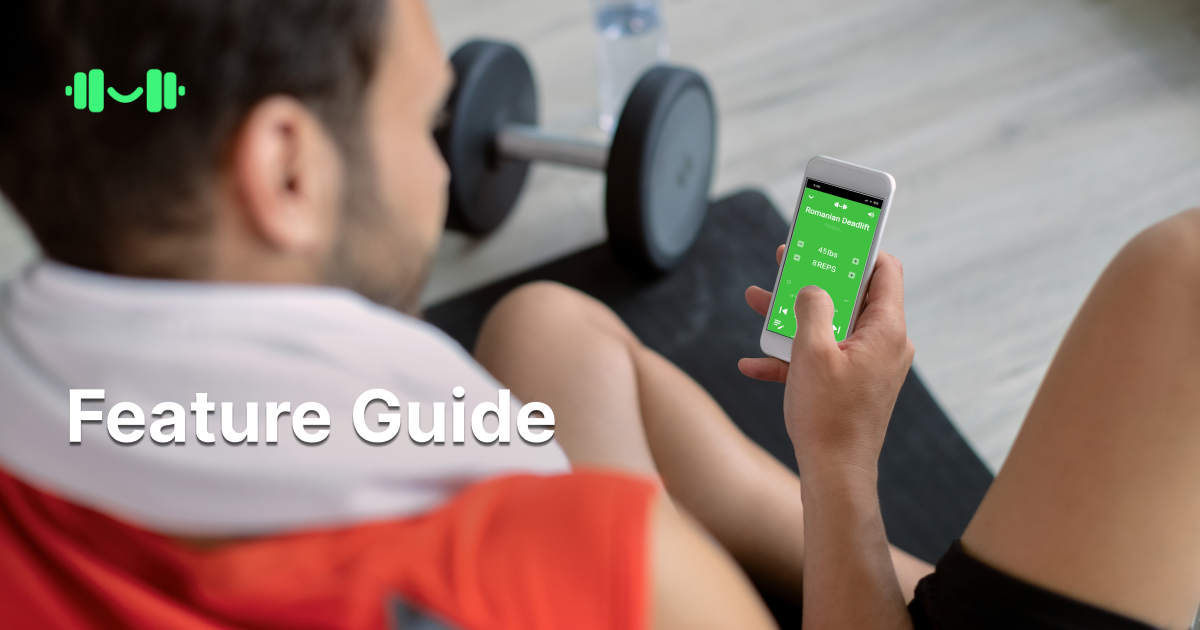
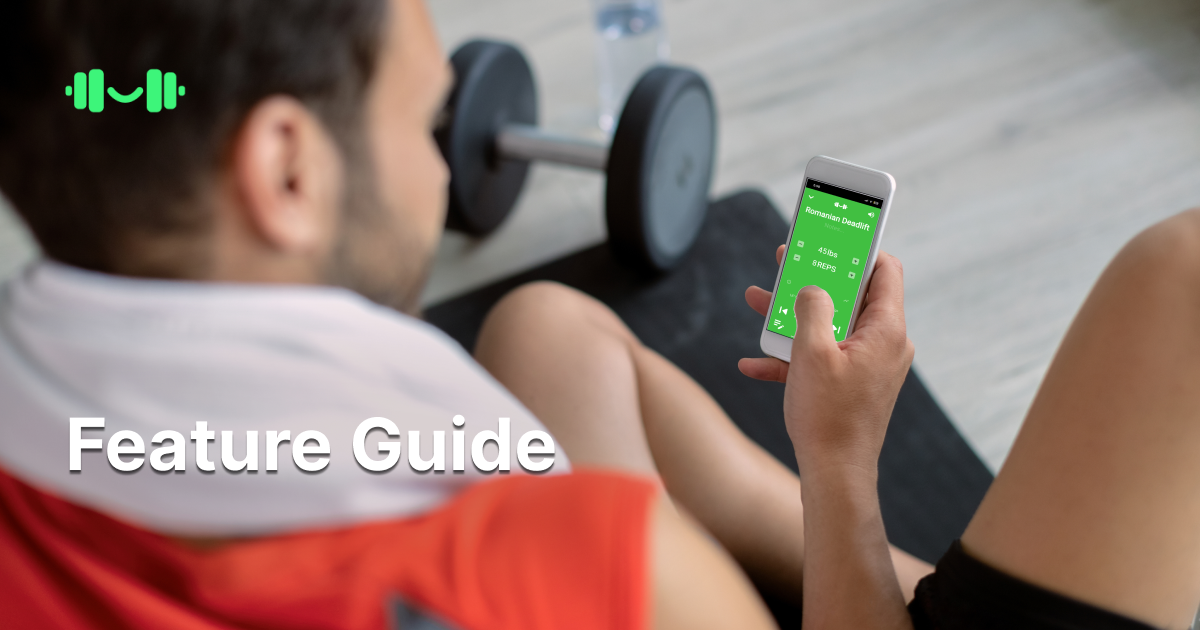
Updated About Page and some css

Changed region(s): [[0.0308, 0.6032, 0.4625, 0.754]]

diff --git a/about.html b/about.html
@@ -41,13 +41,12 @@
     <section class="about head bg-dark">
         <div class="container grid">
             <div class="about-img">
-                <img src="images/youtube.png" alt="Grin&Gain Team Image">
+                <img src="images/Grin&Gain Workmark.png" alt="Grin&Gain Team Image">
             </div>
             <div class="about-title px-2">
                 <h1>Tracking workouts required a lot of thought...</h1>
                     <p><span class="italic">"What set am I on? Should I increase the sets or reps for next time? Am I hitting every muscle effectively?"</span></p>
                 <p>These were thoughts that I believed that many people shouldn’t have to worry about while working out. <br> </p>
-                <p class="italic">- Ashton Valeroso</p>
                 <hr>
                 <p><br><span class="highlight"><b>At Grin&Gain,</b></span> we believe that tracking your workouts should be simple, intuitive, and effective. Our mission is to help fitness enthusiasts of all levels achieve their goals by providing a user-friendly platform that makes workout tracking effortless.</p>
             </div>
@@ -66,15 +65,15 @@
                     <div class="description">
                         <h3>Ashton Valeroso</h3>
                         <p class="highlight-2">Founder & Lead Developer</p>
-                        <p>Ashton is a fitness enthusiast with a background in software development. He is passionate about creating tools that help people achieve their fitness goals.</p>
+                        <p>I'm from the Greater Chicago Area and I'm the founder and developer of Grin&Gain. I enjoy all types of training, especially bodybuilding and calisthenics. My goal is to build the very best tool for optimal training and to help everyone achieve their fitness goals.</p>
                     </div>
                 </div>
                 <div class="member-card container grid">
                     <img src="images/Pascua.JPG" alt="Cristina Pascua">
                     <div class="description">
                         <h3>Cristina Pascua</h3>
-                        <p class="highlight-2">UI/UX Designer</p>
-                        <p>Cristina is a talented UI/UX designer with a passion for creating intuitive and engaging user experiences. She believes that design should be user-centered and strives to make fitness tracking accessible to everyone.</p>
+                        <p class="highlight-2">UX/Product Designer</p>
+                        <p>I'm from Northern New Jersey with a background in UX Design from Purdue University. I hope to create an intuitive and engaging user experience for Grin&Gain that makes fitness tracking simple and accessible. I love any outdoor activities, especially hiking, and I'm always up for an adventure!</p>
                     </div>
                 </div>
             </div>
@@ -93,9 +92,9 @@
             <div class="contact m-1">
                 <a href="index.html" class="logo"><img src="images/Logo.png" alt=""></a>
                 <div class="social m-1">
-                    <a href=""><i class="fa-brands fa-instagram fa-lg" style="color: #ffffff;"></i></a>
-                    <a href=""><i class="fa-brands fa-youtube fa-lg" style="color: #ffffff;"></i></a>
-                    <a href=""><i class="fa-brands fa-facebook fa-lg" style="color: #ffffff;"></i></a>
+                    <a href="https://www.instagram.com/grinngain/"><i class="fa-brands fa-instagram fa-lg" style="color: #ffffff;"></i></a>
+                    <a href="https://www.youtube.com/@grinngain"><i class="fa-brands fa-youtube fa-lg" style="color: #ffffff;"></i></a>
+                    <a href="https://www.facebook.com/people/GrinGain/61559344051144/"><i class="fa-brands fa-facebook fa-lg" style="color: #ffffff;"></i></a>
                 </div>
                 <p>General Inquiries: <a href="mailto:info@grinngain.com">info@grinngain.com</a></p>
                 <p>Customer Support: <a href="mailto:support@grinngain.com">support@grinngain.com</a></p>
@@ -105,7 +104,7 @@
                     <ul>
                         <li><a href="about.html">About</a></li>
                         <li><a href="resources.html">Resources</a></li>
-                        <li><a href="contact.html">Contact</a></li>
+                        <li><a href="access.html">Get Early Access</a></li>
                     </ul>
                 </nav>
                 <nav>
@@ -119,6 +118,6 @@
             </div>
         </div>
         <p class="copy">Copyright &copy; 2025 Grin&Gain. All Rights Reserved</p>
-    </section>
+    </section>  
 </body>
 </html>

diff --git a/terms.html b/terms.html
@@ -386,37 +386,37 @@
         
 
         <section class="footer bg-dark">
-            <div class="container grid">
-                <div class="contact m-1">
-                    <a href="index.html" class="logo"><img src="images/Logo.png" alt=""></a>
-                    <div class="social m-1">
-                        <a href=""><i class="fa-brands fa-instagram fa-lg" style="color: #ffffff;"></i></a>
-                        <a href=""><i class="fa-brands fa-youtube fa-lg" style="color: #ffffff;"></i></a>
-                        <a href=""><i class="fa-brands fa-facebook fa-lg" style="color: #ffffff;"></i></a>
-                    </div>
-                    <p>General Inquiries: <a href="mailto:info@grinngain.com">info@grinngain.com</a></p>
-                    <p>Customer Support: <a href="mailto:support@grinngain.com">support@grinngain.com</a></p>
+        <div class="container grid">
+            <div class="contact m-1">
+                <a href="index.html" class="logo"><img src="images/Logo.png" alt=""></a>
+                <div class="social m-1">
+                    <a href="https://www.instagram.com/grinngain/"><i class="fa-brands fa-instagram fa-lg" style="color: #ffffff;"></i></a>
+                    <a href="https://www.youtube.com/@grinngain"><i class="fa-brands fa-youtube fa-lg" style="color: #ffffff;"></i></a>
+                    <a href="https://www.facebook.com/people/GrinGain/61559344051144/"><i class="fa-brands fa-facebook fa-lg" style="color: #ffffff;"></i></a>
                 </div>
-                <div class="links">
-                    <nav>
-                        <ul>
-                            <li><a href="about.html">About</a></li>
-                            <li><a href="resources.html">Resources</a></li>
-                            <li><a href="contact.html">Contact</a></li>
-                        </ul>
-                    </nav>
-                    <nav>
-                        <ul>
-                            <li><a href="privacy.html">Privacy Policy</a></li>
-                            <li><a href="terms.html">Terms and Conditions</a></li>
-                        </ul>
-                    </nav>
-                    <p>Interested in Joining the Team? <a href="https://docs.google.com/forms/d/e/1FAIpQLSeBqMpMcbBKnFyB0V9BKCLgO62m8xLoEIJi52ct6YyI6wP_5w/viewform">Let Us Know!</a></p>
-                    <p>Want to Report a Bug? Or give us Feedback? <a href="https://docs.google.com/forms/d/e/1FAIpQLSeBqMpMcbBKnFyB0V9BKCLgO62m8xLoEIJi52ct6YyI6wP_5w/viewform">Tell Us Here</a></p>
-                </div>
+                <p>General Inquiries: <a href="mailto:info@grinngain.com">info@grinngain.com</a></p>
+                <p>Customer Support: <a href="mailto:support@grinngain.com">support@grinngain.com</a></p>
             </div>
-            <p class="copy">Copyright &copy; 2025 Grin&Gain. All Rights Reserved</p>
-        </section>
+            <div class="links">
+                <nav>
+                    <ul>
+                        <li><a href="about.html">About</a></li>
+                        <li><a href="resources.html">Resources</a></li>
+                        <li><a href="access.html">Get Early Access</a></li>
+                    </ul>
+                </nav>
+                <nav>
+                    <ul>
+                        <li><a href="privacy.html">Privacy Policy</a></li>
+                        <li><a href="terms.html">Terms and Conditions</a></li>
+                    </ul>
+                </nav>
+                <p>Interested in Joining the Team? <a href="https://docs.google.com/forms/d/e/1FAIpQLSeBqMpMcbBKnFyB0V9BKCLgO62m8xLoEIJi52ct6YyI6wP_5w/viewform">Let Us Know!</a></p>
+                <p>Want to Report a Bug? Or give us Feedback? <a href="https://docs.google.com/forms/d/e/1FAIpQLSeBqMpMcbBKnFyB0V9BKCLgO62m8xLoEIJi52ct6YyI6wP_5w/viewform">Tell Us Here</a></p>
+            </div>
+        </div>
+        <p class="copy">Copyright &copy; 2025 Grin&Gain. All Rights Reserved</p>
+    </section>  
 
 
 

diff --git a/index.html b/index.html
@@ -61,7 +61,7 @@
         <!-- Features Section -->
         <section class="features">
             <div class="container grid">
-                <div class="description px-3">
+                <div class="description">
                     <h2 class="features-heading my-2">Experience The Simplest Way to Track Workouts</h2>
                     <p class="text-secondary">Our Workout Player is designed to help you stay focused during each exercise and make quick, instant adjustments.</p>
                     <p class="text-secondary"><b>Just press play and let the app guide you through your workout.</b></p>
@@ -78,14 +78,14 @@
                     <!-- add gif of running through the queue: middle of workout, click on an exercise, move one up, open stats-->
                     <img src="images/Queue.png" alt="">
                 </div>
-                <div class="description px-3">
+                <div class="description">
                     <h2 class="features-heading my-2">Understand Your Workout, At a Glance</h2>
                     <p class="text-secondary">Stay focused with our simple Workout Player Queue. Track your progress in real time, adjust on the fly, and view stats without breaking your flow.</p>
                 </div>
             </div>
 
             <div class="container grid">
-                <div class="description px-3">
+                <div class="description">
                     <h2 class="features-heading my-2">Adjust Your Routines Automatically</h2>
                     <p class="text-secondary">Take the guesswork out of training with automatic or custom workout adjustments that keep your routines progressing and your strength building consistently.</p>
                 </div>
@@ -106,17 +106,17 @@
                 <div class="insight">
                     <img src="images/Exercise.png" alt="">
                     <h3>Exercise Insights</h3>
-                    <p class="text-secondary px-1">Go beyond sets and reps with detailed breakdowns for each of your exercises like Estimated 1RM and Average Strength—giving you a clear picture of your true performance.</p>
+                    <p class="text-secondary px-1">Go beyond sets and reps with detailed breakdowns for each of your exercises—giving you a clear picture of your true performance.</p>
                 </div>
                 <div class="insight">
                     <img src="images/Weekly.png" alt="">
                     <h3>Weekly Improvements</h3>
-                    <p class="text-secondary px-1">See how you’re progressing week by week with automatic comparisons that highlight your gains, so you always know where you’re improving.</p>
+                    <p class="text-secondary px-1">See how you’re progressing with weekly comparisons that highlight your gains, so you always know where you’re improving.</p>
                 </div>
                 <div class="insight">
                     <img src="images/Overall.png" alt="">
                     <h3>Overall Progress</h3>
-                    <p class="text-secondary px-1">Track the bigger picture of your fitness journey through raw numbers or clear trend lines, showing your average percentage changes from your baseline.</p>
+                    <p class="text-secondary px-1">Track the bigger picture of your fitness journey through raw numbers and clear trend lines, showing your average percentage changes from where you started.</p>
                 </div>
             </div>
         </section>
@@ -153,7 +153,7 @@
                     <ul>
                         <li><a href="about.html">About</a></li>
                         <li><a href="resources.html">Resources</a></li>
-                        <li><a href="contact.html">Get Early Access</a></li>
+                        <li><a href="access.html">Get Early Access</a></li>
                     </ul>
                 </nav>
                 <nav>

diff --git a/privacy.html b/privacy.html
@@ -604,9 +604,9 @@
             <div class="contact m-1">
                 <a href="index.html" class="logo"><img src="images/Logo.png" alt=""></a>
                 <div class="social m-1">
-                    <a href=""><i class="fa-brands fa-instagram fa-lg" style="color: #ffffff;"></i></a>
-                    <a href=""><i class="fa-brands fa-youtube fa-lg" style="color: #ffffff;"></i></a>
-                    <a href=""><i class="fa-brands fa-facebook fa-lg" style="color: #ffffff;"></i></a>
+                    <a href="https://www.instagram.com/grinngain/"><i class="fa-brands fa-instagram fa-lg" style="color: #ffffff;"></i></a>
+                    <a href="https://www.youtube.com/@grinngain"><i class="fa-brands fa-youtube fa-lg" style="color: #ffffff;"></i></a>
+                    <a href="https://www.facebook.com/people/GrinGain/61559344051144/"><i class="fa-brands fa-facebook fa-lg" style="color: #ffffff;"></i></a>
                 </div>
                 <p>General Inquiries: <a href="mailto:info@grinngain.com">info@grinngain.com</a></p>
                 <p>Customer Support: <a href="mailto:support@grinngain.com">support@grinngain.com</a></p>
@@ -616,7 +616,7 @@
                     <ul>
                         <li><a href="about.html">About</a></li>
                         <li><a href="resources.html">Resources</a></li>
-                        <li><a href="contact.html">Contact</a></li>
+                        <li><a href="access.html">Get Early Access</a></li>
                     </ul>
                 </nav>
                 <nav>
@@ -630,7 +630,7 @@
             </div>
         </div>
         <p class="copy">Copyright &copy; 2025 Grin&Gain. All Rights Reserved</p>
-    </section>
+    </section>  
 
 </body>
 </html>

diff --git a/resources.html b/resources.html
@@ -76,9 +76,9 @@
             <div class="contact m-1">
                 <a href="index.html" class="logo"><img src="images/Logo.png" alt=""></a>
                 <div class="social m-1">
-                    <a href=""><i class="fa-brands fa-instagram fa-lg" style="color: #ffffff;"></i></a>
-                    <a href=""><i class="fa-brands fa-youtube fa-lg" style="color: #ffffff;"></i></a>
-                    <a href=""><i class="fa-brands fa-facebook fa-lg" style="color: #ffffff;"></i></a>
+                    <a href="https://www.instagram.com/grinngain/"><i class="fa-brands fa-instagram fa-lg" style="color: #ffffff;"></i></a>
+                    <a href="https://www.youtube.com/@grinngain"><i class="fa-brands fa-youtube fa-lg" style="color: #ffffff;"></i></a>
+                    <a href="https://www.facebook.com/people/GrinGain/61559344051144/"><i class="fa-brands fa-facebook fa-lg" style="color: #ffffff;"></i></a>
                 </div>
                 <p>General Inquiries: <a href="mailto:info@grinngain.com">info@grinngain.com</a></p>
                 <p>Customer Support: <a href="mailto:support@grinngain.com">support@grinngain.com</a></p>
@@ -88,7 +88,7 @@
                     <ul>
                         <li><a href="about.html">About</a></li>
                         <li><a href="resources.html">Resources</a></li>
-                        <li><a href="contact.html">Contact</a></li>
+                        <li><a href="access.html">Get Early Access</a></li>
                     </ul>
                 </nav>
                 <nav>
@@ -102,6 +102,6 @@
             </div>
         </div>
         <p class="copy">Copyright &copy; 2025 Grin&Gain. All Rights Reserved</p>
-    </section>
+    </section>  
 </body>
 </html>

diff --git a/access.html b/access.html
@@ -57,9 +57,9 @@
             <div class="contact m-1">
                 <a href="index.html" class="logo"><img src="images/Logo.png" alt=""></a>
                 <div class="social m-1">
-                    <a href=""><i class="fa-brands fa-instagram fa-lg" style="color: #ffffff;"></i></a>
-                    <a href=""><i class="fa-brands fa-youtube fa-lg" style="color: #ffffff;"></i></a>
-                    <a href=""><i class="fa-brands fa-facebook fa-lg" style="color: #ffffff;"></i></a>
+                    <a href="https://www.instagram.com/grinngain/"><i class="fa-brands fa-instagram fa-lg" style="color: #ffffff;"></i></a>
+                    <a href="https://www.youtube.com/@grinngain"><i class="fa-brands fa-youtube fa-lg" style="color: #ffffff;"></i></a>
+                    <a href="https://www.facebook.com/people/GrinGain/61559344051144/"><i class="fa-brands fa-facebook fa-lg" style="color: #ffffff;"></i></a>
                 </div>
                 <p>General Inquiries: <a href="mailto:info@grinngain.com">info@grinngain.com</a></p>
                 <p>Customer Support: <a href="mailto:support@grinngain.com">support@grinngain.com</a></p>
@@ -83,6 +83,6 @@
             </div>
         </div>
         <p class="copy">Copyright &copy; 2025 Grin&Gain. All Rights Reserved</p>
-    </section>
+    </section>  
 </body>
 </html>

diff --git a/css/style.css b/css/style.css
@@ -245,6 +245,7 @@ main
 
 .features .description {
     text-align: left;
+    padding-left: 40px;
     width: 80%;
 }   
 
@@ -255,7 +256,7 @@ main
 
 .feature-card {
     background-color: #171717;
-    border-radius: 30px;
+    border-radius: 16px;
     color: white;
     box-shadow: inset 5px 10px 10px rgba(255, 255, 255, 0.1);
     padding: 30px 30px 20px;
@@ -279,12 +280,15 @@ main
 
 /* Insights & Statistics */
 .insights{
-    padding: 80px 0;
-
+    padding: 40px 0;
 }
 
 .insights .container {
     padding: 0;
+}
+
+.insight {
+    padding-bottom: 40px;
 }
 
 .insight img {
@@ -487,6 +491,7 @@ main
 .member-card img{
     width: 100%;
     height: auto;
+    border-radius: 10px;
 }
 
 .join {
@@ -550,6 +555,9 @@ main
         order: 2 !important;
     }
     
+    .feature-card img {
+        max-height: 300px;
+    }
 
     .navbar #navy {
         position: absolute;
@@ -603,6 +611,21 @@ main
 
     .navbar a.btn.mobile-btn {
         display: inline;
+    }
+
+    .download .lg-btn {
+        font-size: 14px !important;
+        padding: 10px 20px !important;
+    };
+
+    .features-heading {
+        text-align: center;
+    }
+
+    .features .description {
+        padding-left: 0 !important;
+        width: 100%;
+        text-align: center !important;
     }
 
     .head {

diff --git a/css/utilities.css b/css/utilities.css
@@ -14,6 +14,13 @@
     cursor: pointer;
 }
 
+.btn-outline {
+    background-color: transparent !important;
+    border: 2px solid var(--primary-color) !important;
+    color: var(--primary-color) !important;
+    padding: 8px 10px !important;
+}
+
 .lg-btn {
     display: inline-block;
     padding: 12px 30px;
